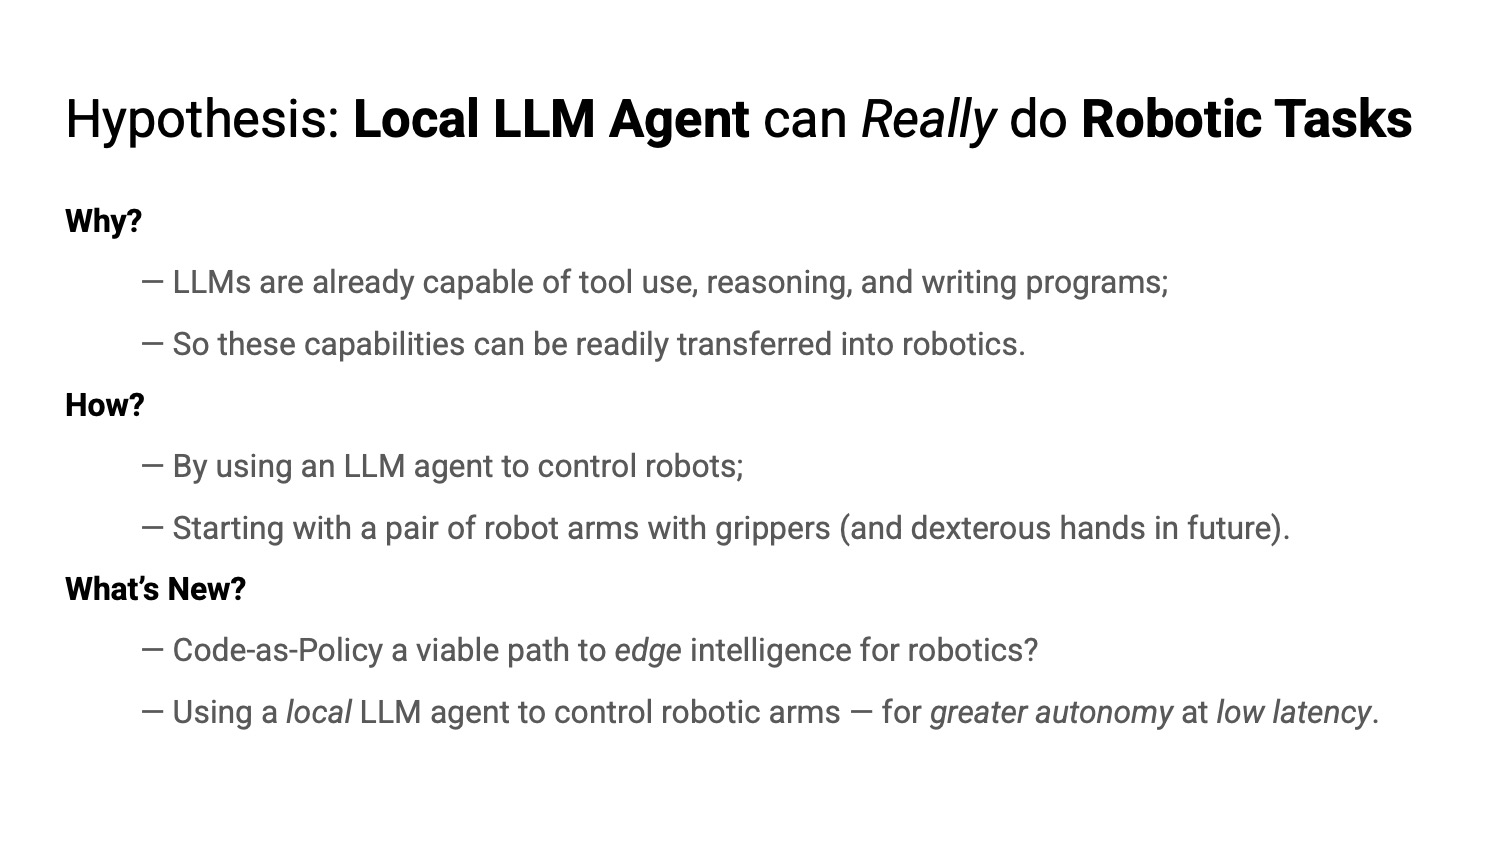
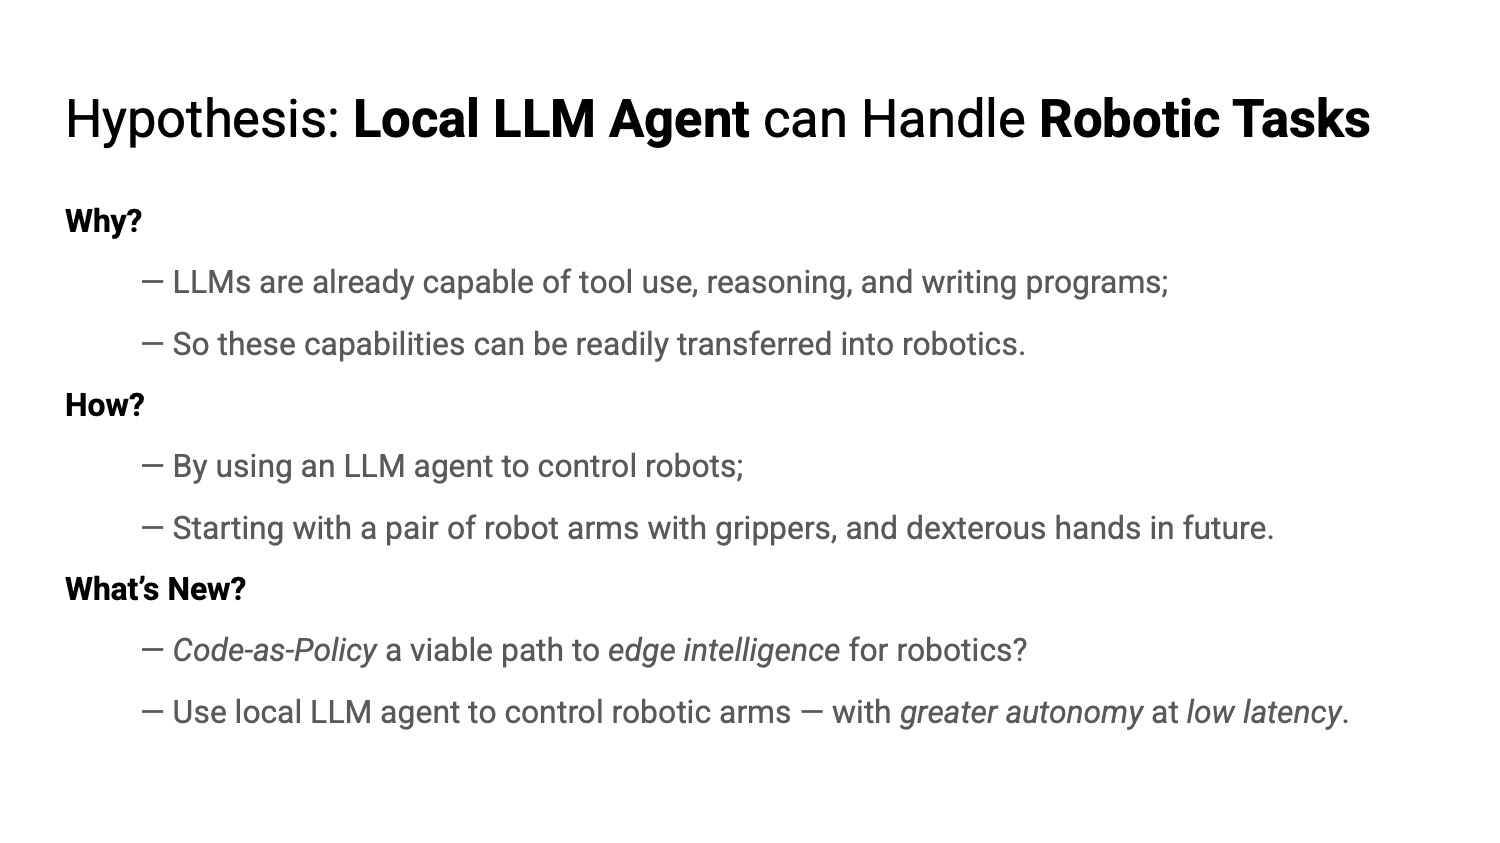
SQS

diff --git a/_projects/sidequest.md b/_projects/sidequest.md
@@ -11,7 +11,7 @@ I plan to evaluate the use of a local LLM agent for robotic tasks by constructin
 
 In particular, the local LLM runs on a Mac Mini M5 Pro (with 64GB memory) connected to OpenArm 2.0, which executes a variety of robotic tasks in a controlled setting. These tasks can be machine learned using a kinematic equivalent teleoperation rig.
 
-By using a local LLM agent to control a pair of robot arms equipped with grippers (but with the possibility of upgrading to dexterous hands in the future), I hope to demonstrate that code-as-policy is a viable path to _edge_ intelligence for robotics, thus opening up flexible modes of robotic interaction with local control (e.g., robots on Mars executing commands received from Earth) for greater autonomy at low latency.
+By using a local LLM agent to control a pair of robot arms equipped with grippers (but with the possibility of upgrading to dexterous hands in the future), I hope to demonstrate that _code-as-policy_ is a viable path to _edge intelligence_ for robotics, thus opening up more flexible modes of robotic interaction with local control (e.g., robots on Mars executing commands received from Earth), with greater autonomy at low latency, too.
 
 ---
 
